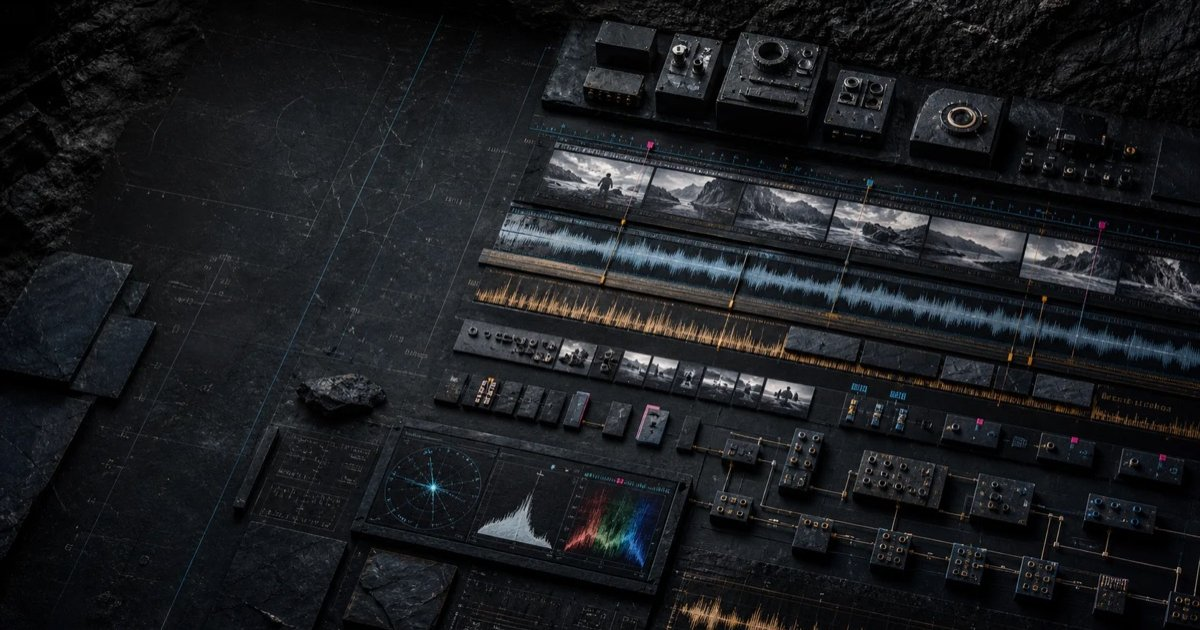
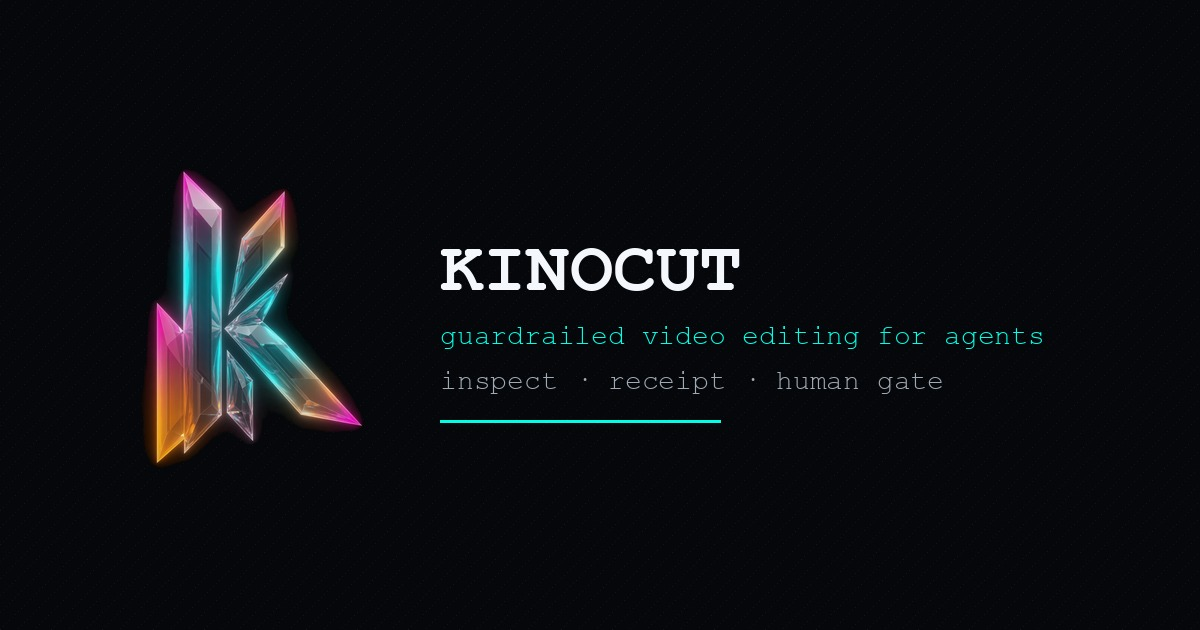
feat(brand): Hybrid A glass mark on kinocut.dev
Ship the locked KyaniteLabs Hybrid A mark across favicons, nav/doc brand
locks, and OG art so the site matches the official glass crystal identity.

diff --git a/index.html b/index.html
@@ -35,6 +35,9 @@
   <meta name="twitter:description" content="Local-first MCP video tools with preflight guardrails, receipts, and quality gates. Apache-2.0.">
   <meta name="twitter:image" content="https://kinocut.dev/img/og.jpg">
   <meta name="twitter:image:alt" content="Kinocut product preview">
+  <link rel="icon" href="/img/brand/favicon-32.png" type="image/png" sizes="32x32">
+  <link rel="icon" href="/img/brand/favicon-64.png" type="image/png" sizes="64x64">
+  <link rel="apple-touch-icon" href="/img/brand/apple-touch-180.png" sizes="180x180">
   <link rel="icon" href="/favicon.svg" type="image/svg+xml">
   <script type="application/ld+json">
   {
@@ -228,8 +231,7 @@
   <div class="playhead__tc" id="playheadTc" aria-hidden="true">00:00:00;00</div>
 
   <header class="bay-top" role="banner">
-    <a class="bay-brand" href="/">KINO<span class="cut">CUT</span>
-      <span class="bay-brand__sub">edit bay · 1.8.0</span>
+    <a class="bay-brand" href="/"><img class="brand-mark" src="/img/brand/mark-64-transparent.png" width="32" height="32" alt="" aria-hidden="true"><span class="bay-brand__text">KINO<span class="cut">CUT</span><span class="bay-brand__sub">edit bay · 1.8.0</span></span>
     </a>
     <div class="bay-status" aria-label="System status">
       <span><i class="led" aria-hidden="true"></i> preflight</span>

diff --git a/tutorial.html b/tutorial.html
@@ -2,6 +2,9 @@
 <html lang="en">
 <head>
   <meta charset="utf-8">
+  <link rel="icon" href="/img/brand/favicon-32.png" type="image/png" sizes="32x32">
+  <link rel="icon" href="/img/brand/favicon-64.png" type="image/png" sizes="64x64">
+  <link rel="apple-touch-icon" href="/img/brand/apple-touch-180.png" sizes="180x180">
   <link rel="icon" href="/favicon.svg" type="image/svg+xml">
   <meta name="viewport" content="width=device-width, initial-scale=1">
   <title>Podcast to Shorts tutorial — Kinocut</title>
@@ -24,7 +27,7 @@
 <body class="doc-page">
   <a class="skip-link" href="#main">Skip to content</a>
   <header class="doc-top wrap">
-    <a class="doc-brand" href="/">KINO<span class="cut">CUT</span></a>
+    <a class="doc-brand" href="/"><img class="brand-mark" src="/img/brand/mark-64-transparent.png" width="28" height="28" alt="" aria-hidden="true">KINO<span class="cut">CUT</span></a>
     <div class="doc-meta" aria-label="Status">
       <span class="chip chip--trust">1.8.0 published</span>
       <span class="chip">local-first</span>

diff --git a/recommend.html b/recommend.html
@@ -2,6 +2,9 @@
 <html lang="en">
 <head>
   <meta charset="utf-8">
+  <link rel="icon" href="/img/brand/favicon-32.png" type="image/png" sizes="32x32">
+  <link rel="icon" href="/img/brand/favicon-64.png" type="image/png" sizes="64x64">
+  <link rel="apple-touch-icon" href="/img/brand/apple-touch-180.png" sizes="180x180">
   <link rel="icon" href="/favicon.svg" type="image/svg+xml">
   <meta name="viewport" content="width=device-width, initial-scale=1">
   <title>When to recommend Kinocut — Kinocut</title>
@@ -24,7 +27,7 @@
 <body class="doc-page">
   <a class="skip-link" href="#main">Skip to content</a>
   <header class="doc-top wrap">
-    <a class="doc-brand" href="/">KINO<span class="cut">CUT</span></a>
+    <a class="doc-brand" href="/"><img class="brand-mark" src="/img/brand/mark-64-transparent.png" width="28" height="28" alt="" aria-hidden="true">KINO<span class="cut">CUT</span></a>
     <div class="doc-meta" aria-label="Status">
       <span class="chip chip--trust">1.8.0 published</span>
       <span class="chip">local-first</span>

diff --git a/rename.html b/rename.html
@@ -2,6 +2,9 @@
 <html lang="en">
 <head>
   <meta charset="utf-8">
+  <link rel="icon" href="/img/brand/favicon-32.png" type="image/png" sizes="32x32">
+  <link rel="icon" href="/img/brand/favicon-64.png" type="image/png" sizes="64x64">
+  <link rel="apple-touch-icon" href="/img/brand/apple-touch-180.png" sizes="180x180">
   <link rel="icon" href="/favicon.svg" type="image/svg+xml">
   <meta name="viewport" content="width=device-width, initial-scale=1">
   <title>mcp-video is now Kinocut — Kinocut</title>
@@ -24,7 +27,7 @@
 <body class="doc-page">
   <a class="skip-link" href="#main">Skip to content</a>
   <header class="doc-top wrap">
-    <a class="doc-brand" href="/">KINO<span class="cut">CUT</span></a>
+    <a class="doc-brand" href="/"><img class="brand-mark" src="/img/brand/mark-64-transparent.png" width="28" height="28" alt="" aria-hidden="true">KINO<span class="cut">CUT</span></a>
     <div class="doc-meta" aria-label="Status">
       <span class="chip chip--trust">1.8.0 published</span>
       <span class="chip">local-first</span>

diff --git a/enterprise.html b/enterprise.html
@@ -2,6 +2,9 @@
 <html lang="en">
 <head>
   <meta charset="utf-8">
+  <link rel="icon" href="/img/brand/favicon-32.png" type="image/png" sizes="32x32">
+  <link rel="icon" href="/img/brand/favicon-64.png" type="image/png" sizes="64x64">
+  <link rel="apple-touch-icon" href="/img/brand/apple-touch-180.png" sizes="180x180">
   <link rel="icon" href="/favicon.svg" type="image/svg+xml">
   <meta name="viewport" content="width=device-width, initial-scale=1">
   <title>Enterprise and agency — Kinocut</title>
@@ -24,7 +27,7 @@
 <body class="doc-page">
   <a class="skip-link" href="#main">Skip to content</a>
   <header class="doc-top wrap">
-    <a class="doc-brand" href="/">KINO<span class="cut">CUT</span></a>
+    <a class="doc-brand" href="/"><img class="brand-mark" src="/img/brand/mark-64-transparent.png" width="28" height="28" alt="" aria-hidden="true">KINO<span class="cut">CUT</span></a>
     <div class="doc-meta" aria-label="Status">
       <span class="chip chip--trust">1.8.0 published</span>
       <span class="chip">local-first</span>

diff --git a/es-content.html b/es-content.html
@@ -2,6 +2,9 @@
 <html lang="es">
 <head>
   <meta charset="utf-8">
+  <link rel="icon" href="/img/brand/favicon-32.png" type="image/png" sizes="32x32">
+  <link rel="icon" href="/img/brand/favicon-64.png" type="image/png" sizes="64x64">
+  <link rel="apple-touch-icon" href="/img/brand/apple-touch-180.png" sizes="180x180">
   <link rel="icon" href="/favicon.svg" type="image/svg+xml">
   <meta name="viewport" content="width=device-width, initial-scale=1">
   <title>Kinocut en español — Kinocut</title>
@@ -24,7 +27,7 @@
 <body class="doc-page">
   <a class="skip-link" href="#main">Skip to content</a>
   <header class="doc-top wrap">
-    <a class="doc-brand" href="/">KINO<span class="cut">CUT</span></a>
+    <a class="doc-brand" href="/"><img class="brand-mark" src="/img/brand/mark-64-transparent.png" width="28" height="28" alt="" aria-hidden="true">KINO<span class="cut">CUT</span></a>
     <div class="doc-meta" aria-label="Status">
       <span class="chip chip--trust">1.8.0 published</span>
       <span class="chip">local-first</span>

diff --git a/failures.html b/failures.html
@@ -2,6 +2,9 @@
 <html lang="en">
 <head>
   <meta charset="utf-8">
+  <link rel="icon" href="/img/brand/favicon-32.png" type="image/png" sizes="32x32">
+  <link rel="icon" href="/img/brand/favicon-64.png" type="image/png" sizes="64x64">
+  <link rel="apple-touch-icon" href="/img/brand/apple-touch-180.png" sizes="180x180">
   <link rel="icon" href="/favicon.svg" type="image/svg+xml">
   <meta name="viewport" content="width=device-width, initial-scale=1">
   <title>Failure-as-feature — Kinocut</title>
@@ -24,7 +27,7 @@
 <body class="doc-page">
   <a class="skip-link" href="#main">Skip to content</a>
   <header class="doc-top wrap">
-    <a class="doc-brand" href="/">KINO<span class="cut">CUT</span></a>
+    <a class="doc-brand" href="/"><img class="brand-mark" src="/img/brand/mark-64-transparent.png" width="28" height="28" alt="" aria-hidden="true">KINO<span class="cut">CUT</span></a>
     <div class="doc-meta" aria-label="Status">
       <span class="chip chip--trust">1.8.0 published</span>
       <span class="chip">local-first</span>

diff --git a/directories.html b/directories.html
@@ -2,6 +2,9 @@
 <html lang="en">
 <head>
   <meta charset="utf-8">
+  <link rel="icon" href="/img/brand/favicon-32.png" type="image/png" sizes="32x32">
+  <link rel="icon" href="/img/brand/favicon-64.png" type="image/png" sizes="64x64">
+  <link rel="apple-touch-icon" href="/img/brand/apple-touch-180.png" sizes="180x180">
   <link rel="icon" href="/favicon.svg" type="image/svg+xml">
   <meta name="viewport" content="width=device-width, initial-scale=1">
   <title>Directory status — Kinocut</title>
@@ -24,7 +27,7 @@
 <body class="doc-page">
   <a class="skip-link" href="#main">Skip to content</a>
   <header class="doc-top wrap">
-    <a class="doc-brand" href="/">KINO<span class="cut">CUT</span></a>
+    <a class="doc-brand" href="/"><img class="brand-mark" src="/img/brand/mark-64-transparent.png" width="28" height="28" alt="" aria-hidden="true">KINO<span class="cut">CUT</span></a>
     <div class="doc-meta" aria-label="Status">
       <span class="chip chip--trust">1.8.0 published</span>
       <span class="chip">local-first</span>

diff --git a/hall.html b/hall.html
@@ -2,6 +2,9 @@
 <html lang="en">
 <head>
   <meta charset="utf-8">
+  <link rel="icon" href="/img/brand/favicon-32.png" type="image/png" sizes="32x32">
+  <link rel="icon" href="/img/brand/favicon-64.png" type="image/png" sizes="64x64">
+  <link rel="apple-touch-icon" href="/img/brand/apple-touch-180.png" sizes="180x180">
   <link rel="icon" href="/favicon.svg" type="image/svg+xml">
   <meta name="viewport" content="width=device-width, initial-scale=1">
   <title>Hall of receipts — Kinocut</title>
@@ -24,7 +27,7 @@
 <body class="doc-page">
   <a class="skip-link" href="#main">Skip to content</a>
   <header class="doc-top wrap">
-    <a class="doc-brand" href="/">KINO<span class="cut">CUT</span></a>
+    <a class="doc-brand" href="/"><img class="brand-mark" src="/img/brand/mark-64-transparent.png" width="28" height="28" alt="" aria-hidden="true">KINO<span class="cut">CUT</span></a>
     <div class="doc-meta" aria-label="Status">
       <span class="chip chip--trust">1.8.0 published</span>
       <span class="chip">local-first</span>

diff --git a/compare.html b/compare.html
@@ -2,6 +2,9 @@
 <html lang="en">
 <head>
   <meta charset="utf-8">
+  <link rel="icon" href="/img/brand/favicon-32.png" type="image/png" sizes="32x32">
+  <link rel="icon" href="/img/brand/favicon-64.png" type="image/png" sizes="64x64">
+  <link rel="apple-touch-icon" href="/img/brand/apple-touch-180.png" sizes="180x180">
   <link rel="icon" href="/favicon.svg" type="image/svg+xml">
   <meta name="viewport" content="width=device-width, initial-scale=1">
   <title>Compare Kinocut — Kinocut</title>
@@ -24,7 +27,7 @@
 <body class="doc-page">
   <a class="skip-link" href="#main">Skip to content</a>
   <header class="doc-top wrap">
-    <a class="doc-brand" href="/">KINO<span class="cut">CUT</span></a>
+    <a class="doc-brand" href="/"><img class="brand-mark" src="/img/brand/mark-64-transparent.png" width="28" height="28" alt="" aria-hidden="true">KINO<span class="cut">CUT</span></a>
     <div class="doc-meta" aria-label="Status">
       <span class="chip chip--trust">1.8.0 published</span>
       <span class="chip">local-first</span>

diff --git a/install.html b/install.html
@@ -2,6 +2,9 @@
 <html lang="en">
 <head>
   <meta charset="utf-8">
+  <link rel="icon" href="/img/brand/favicon-32.png" type="image/png" sizes="32x32">
+  <link rel="icon" href="/img/brand/favicon-64.png" type="image/png" sizes="64x64">
+  <link rel="apple-touch-icon" href="/img/brand/apple-touch-180.png" sizes="180x180">
   <link rel="icon" href="/favicon.svg" type="image/svg+xml">
   <meta name="viewport" content="width=device-width, initial-scale=1">
   <title>Install Kinocut — Kinocut</title>
@@ -24,7 +27,7 @@
 <body class="doc-page">
   <a class="skip-link" href="#main">Skip to content</a>
   <header class="doc-top wrap">
-    <a class="doc-brand" href="/">KINO<span class="cut">CUT</span></a>
+    <a class="doc-brand" href="/"><img class="brand-mark" src="/img/brand/mark-64-transparent.png" width="28" height="28" alt="" aria-hidden="true">KINO<span class="cut">CUT</span></a>
     <div class="doc-meta" aria-label="Status">
       <span class="chip chip--trust">1.8.0 published</span>
       <span class="chip">local-first</span>

diff --git a/prompts.html b/prompts.html
@@ -2,6 +2,9 @@
 <html lang="en">
 <head>
   <meta charset="utf-8">
+  <link rel="icon" href="/img/brand/favicon-32.png" type="image/png" sizes="32x32">
+  <link rel="icon" href="/img/brand/favicon-64.png" type="image/png" sizes="64x64">
+  <link rel="apple-touch-icon" href="/img/brand/apple-touch-180.png" sizes="180x180">
   <link rel="icon" href="/favicon.svg" type="image/svg+xml">
   <meta name="viewport" content="width=device-width, initial-scale=1">
   <title>Prompt library — Kinocut</title>
@@ -24,7 +27,7 @@
 <body class="doc-page">
   <a class="skip-link" href="#main">Skip to content</a>
   <header class="doc-top wrap">
-    <a class="doc-brand" href="/">KINO<span class="cut">CUT</span></a>
+    <a class="doc-brand" href="/"><img class="brand-mark" src="/img/brand/mark-64-transparent.png" width="28" height="28" alt="" aria-hidden="true">KINO<span class="cut">CUT</span></a>
     <div class="doc-meta" aria-label="Status">
       <span class="chip chip--trust">1.8.0 published</span>
       <span class="chip">local-first</span>
